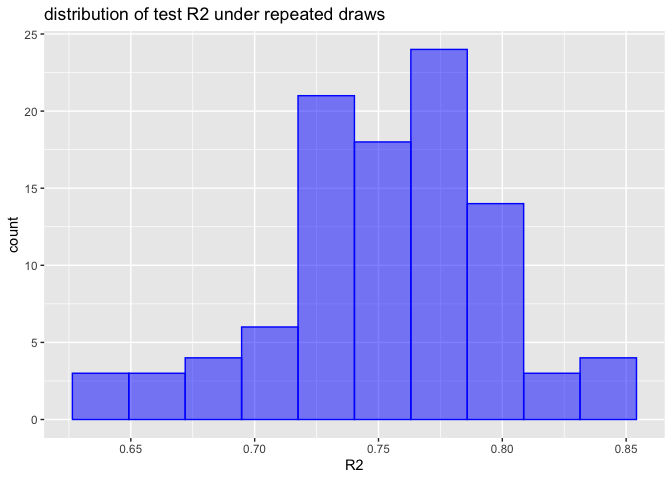
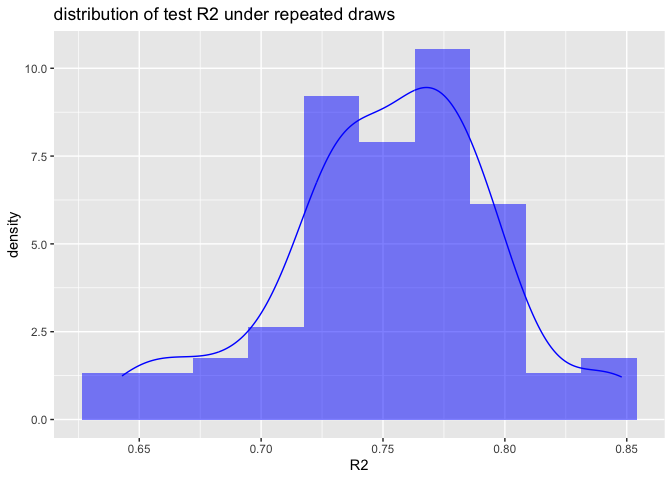
fix dist plot

diff --git a/Examples/CrossVal/LeakTradeOff/CrossFrameExample.md b/Examples/CrossVal/LeakTradeOff/CrossFrameExample.md
@@ -215,14 +215,9 @@ test_r2 = vapply(seq_len(100), f, numeric(1))
 ``` r
 df = data.frame(R2 = test_r2)
 
-# # density and histogram scales don't easilly match
-# ggplot(data = df, aes(x = R2)) +
-#   geom_density() +
-#   geom_histogram(bins = 10, color = 'blue', fill = 'blue', alpha = 0.5) + 
-#   ggtitle('distribution of test R2 under repeated draws')
-
 ggplot(data = df, aes(x = R2)) +
-  geom_histogram(bins = 10, color = 'blue', fill = 'blue', alpha = 0.5) + 
+  geom_histogram(aes(y = ..density..), bins = 10, fill = 'blue', alpha = 0.5) + 
+  geom_line(aes(y = ..density..), stat = 'density', color = 'blue') + 
   ggtitle('distribution of test R2 under repeated draws')
 ```
 
